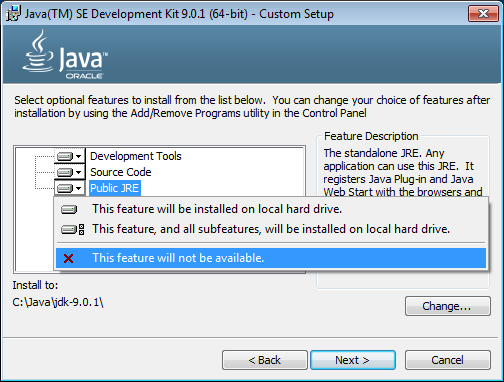
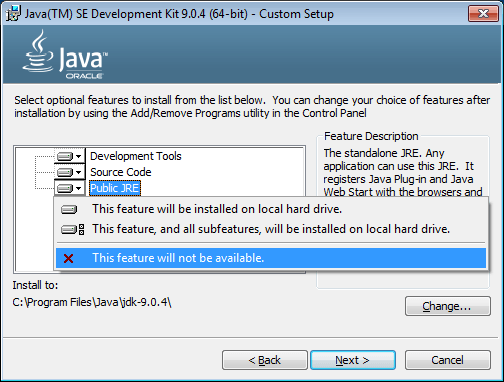
update post

Changed region(s): [[0.0298, 0.7775, 0.3571, 0.8063], [0.3869, 0.0288, 0.4167, 0.0576]]

diff --git a/_posts/java/2018-01-13-java-download-install-jdk-9-windows.md b/_posts/java/2018-01-13-java-download-install-jdk-9-windows.md
@@ -1,7 +1,7 @@
 ---
 title: "Java - Download and Install JDK 1.9 on Windows"
 permalink: /java-download-install-jdk-9-windows.html
-excerpt: "A detailed step-by-step tutorial on how to download and install jdk 9.0.1 on Windows."
+excerpt: "A detailed step-by-step tutorial on how to download and install jdk 9.0.4 on Windows."
 date: 2018-01-13
 last_modified_at: 2018-01-13
 header:
@@ -19,7 +19,9 @@ published: true
 
 Java is currently owned by the Oracle Corporation which acquired Sun Microsystems in 2010. Following tutorial will show you how to setup and configure Java 1.9 on Windows so you can develop and run Java code.
 
-Check following posts if you are looking to download and install [JDK 1.5]({{ site.url }}/java-download-install-jdk-5-windows.html), [JDK 1.6]({{ site.url }}/java-download-install-jdk-6-windows.html), [JDK 1.7]({{ site.url }}/java-download-install-jdk-7-windows.html) or [JDK 1.8]({{ site.url }}/java-download-install-jdk-8-windows.html).
+> JDK 9 has reached its end of life (and end of public support) as of March 2018 and users should switch to [JDK 10]({{ site.url }}/java-download-install-jdk-10-windows.html). This is linked to the new release cycle that Java will be following which consists out of a "feature" release every 6 months and a long-term support (LTS) release every 3 years. The next planned LTS is JDK 11.
+
+Check following posts if you are looking to download and install [JDK 1.5]({{ site.url }}/java-download-install-jdk-5-windows.html), [JDK 1.6]({{ site.url }}/java-download-install-jdk-6-windows.html), [JDK 1.7]({{ site.url }}/java-download-install-jdk-7-windows.html), [JDK 1.8]({{ site.url }}/java-download-install-jdk-8-windows.html) or [JDK 1.10]({{ site.url }}/java-download-install-jdk-10-windows.html).
 {: .notice--primary}
 
 # JDK Download & Install
@@ -28,9 +30,9 @@ Java can be obtained from the Oracle Java download page. There are a number of [
 
 In order to be able to compile Java code, we need the Java Development Kit (JDK) package that comes with a Java compiler. The JDK package also comes with a Java runtime environment (JRE) that is needed to run compiled Java code.
 
-As we are installing the latest Java version, you can find it at the top of the [Oracle Java download page](http://www.oracle.com/technetwork/java/javase/downloads/index.html){:target="_blank"}. Click on the <var>Download</var> button right below <var>JDK</var>.
+As we are installing a Java version that reached end of life, you need to scroll all the way down to the bottom of the [Oracle Java download page](http://www.oracle.com/technetwork/java/javase/downloads/index.html){:target="_blank"} and click on the <var>Download</var> button in the <var>Java Archive</var> section. Then look for the <var>Java SE 9</var> link and after clicking on it, select the correct operating system under <var>Java SE Development Kit 9.0.4</var>.
 
-> Here is the direct link to [download the jdk 9.0.1 installer for Windows 64 bit](http://www.oracle.com/technetwork/java/javase/downloads/jdk9-downloads-3848520.html){:target="_blank"}.
+> Here is the direct link to [download the jdk 9 installer for Windows](http://www.oracle.com/technetwork/java/javase/downloads/java-archive-javase9-3934878.html){:target="_blank"}.
 
 Accept the License Agreement and pick the correct download for your operating system. In this example, we will use the Windows 64 bit version.
 
@@ -38,13 +40,13 @@ Accept the License Agreement and pick the correct download for your operating sy
     <img src="{{ site.url }}/assets/images/posts/java/java-9-download-jdk.png" alt="java 9 download jdk">
 </figure>
 
-Sign in using your Oracle account (or create a new one) and the download should start. Once the download is complete, locate the <var>jdk-9.0.1_windows-x64_bin.exe</var> file and double-click to run the installer.
+Sign in using your Oracle account (or create a new one) and the download should start. Once the download is complete, locate the <var>jdk-9.0.4_windows-x64_bin.exe</var> file and double-click to run the installer.
 
 <figure>
     <img src="{{ site.url }}/assets/images/posts/java/java-9-installer-start.png" alt="java 9 installer start">
 </figure>
 
-Click <var>Next</var> and on the following screen optionally change the installation location by clicking on the <var>Change...</var> button. In this example the install location was changed to <var>'C:\Java\jdk-9.0.1'</var>. From now on we will refer to this directory as: <var>[java_install_dir]</var>.
+Click <var>Next</var> and on the following screen optionally change the installation location by clicking on the <var>Change...</var> button. In this example the default install location of <var>'C:\Program Files\Java\jdk-9.0.4\'</var> was kept. From now on we will refer to this directory as: <var>[java_install_dir]</var>.
 
 <figure>
     <img src="{{ site.url }}/assets/images/posts/java/java-9-jdk-location.png" alt="java 9 jdk location">
@@ -78,7 +80,7 @@ Environment variables can be set at account level or at system level. For this e
     <img src="{{ site.url }}/assets/images/posts/java/environment-variables.png" alt="environment variables">
 </figure>
 
-Click on the <var>New</var> button and enter "<kbd>JAVA_HOME</kbd>" as variable name and the <var>[java_install_dir]</var> as variable value. In this tutorial the installation directory is <var>'C:\Java\jdk-9.0.1'</var>. Click <var>OK</var> to to save.
+Click on the <var>New</var> button and enter "<kbd>JAVA_HOME</kbd>" as variable name and the <var>[java_install_dir]</var> as variable value. In this tutorial the installation directory is <var>'C:\Program Files\Java\jdk-9.0.4'</var>. Click <var>OK</var> to to save.
 
 <figure>
     <img src="{{ site.url }}/assets/images/posts/java/java-9-set-home.png" alt="java 9 set home">

diff --git a/_posts/java/2018-05-01-java-download-install-jdk-10-windows.md b/_posts/java/2018-05-01-java-download-install-jdk-10-windows.md
@@ -44,7 +44,7 @@ Sign in using your Oracle account (or create a new one) and the download should 
     <img src="{{ site.url }}/assets/images/posts/java/java-10-installer-start.png" alt="java 10 installer start">
 </figure>
 
-Click <var>Next</var> and on the following screen optionally change the installation location by clicking on the <var>Change...</var> button. In this example the install location was changed to <var>'C:\Java\jdk-10.0.1'</var>. From now on we will refer to this directory as: <var>[java_install_dir]</var>.
+Click <var>Next</var> and on the following screen optionally change the installation location by clicking on the <var>Change...</var> button. In this example the default install location of <var>'C:\Program Files\Java\jdk-10.0.1\'</var> was kept. From now on we will refer to this directory as: <var>[java_install_dir]</var>.
 
 <figure>
     <img src="{{ site.url }}/assets/images/posts/java/java-10-jdk-location.png" alt="java 10 jdk location">
@@ -112,6 +112,6 @@ The result should be as shown below.
 
 ---
 
-This concludes the setting up and configuring JDK 1.10 on Windows.
+This concludes the setting up and configuring JDK 10 on Windows.
 
 If you found this post helpful or have any questions or remarks, please leave a comment.
